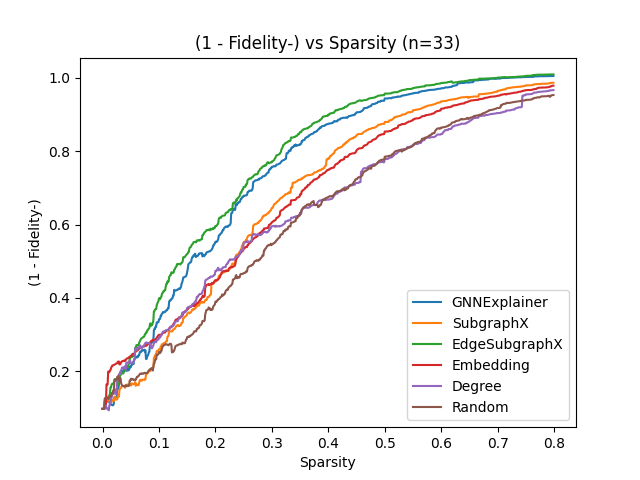
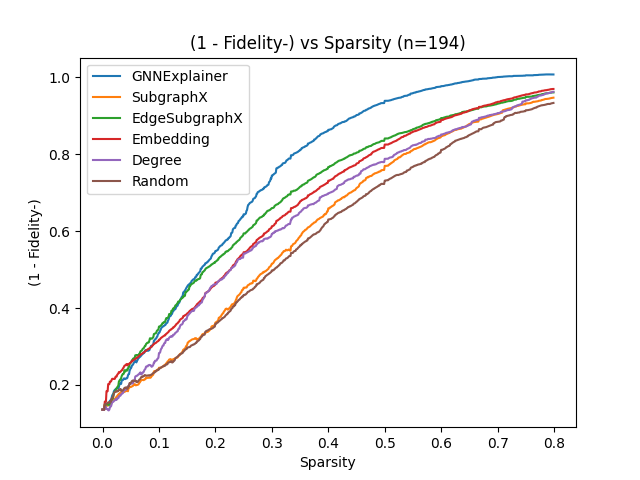
Run larger experiment
GNNExplainer takes the lead

diff --git a/src/experiments/vary_sparsity/base.py b/src/experiments/vary_sparsity/base.py
@@ -5,50 +5,17 @@ import numpy as np
 import torch
 
 from src.dataset import dataset, device, test_data
-from src.explainers.degree import DegreeExplainer
-from src.explainers.edge_subgraphx import EdgeSubgraphX
-from src.explainers.embedding import EmbeddingExplainer
-from src.explainers.gnnexplainer import GNNExplainer
-from src.explainers.random import RandomExplainer
-from src.explainers.subgraphx import SubgraphX
+from src.explainers.main import (
+    sample_degree,
+    sample_edge_subgraphx,
+    sample_embedding,
+    sample_gnnexplainer,
+    sample_random,
+    sample_subgraphx,
+)
 from src.metrics.fidelity import charact_prob, fid_minus_prob, fid_plus_prob
 from src.pred import Net
 from src.utils import get_neighbors, sigmoid
-
-
-def sample_gnnexplainer(
-    model, x, edge_index, node_idx_1, node_idx_2, epochs=100, lr=0.01
-):
-    # GNNExplainer, 100 queries per explanation
-    gnnexplainer = GNNExplainer(model, x, edge_index, epochs=epochs, lr=lr)
-    return gnnexplainer.explain_edge(node_idx_1, node_idx_2)
-
-
-def sample_subgraphx(model, x, edge_index, node_idx_1, node_idx_2, T=5):
-    # SubgraphX, 5 * size(neighborhood) queries per explanation
-    subgraphx = SubgraphX(model, x, edge_index, T=T)
-    return subgraphx.explain_edge(node_idx_1, node_idx_2)
-
-
-def sample_edge_subgraphx(model, x, edge_index, node_idx_1, node_idx_2, T=5):
-    # EdgeSubgraphX, 5 * size(neighborhood) queries per explanation
-    edge_subgraphx = EdgeSubgraphX(model, x, edge_index, T=T)
-    return edge_subgraphx.explain_edge(node_idx_1, node_idx_2)
-
-
-def sample_embedding(model, x, edge_index, node_idx_1, node_idx_2):
-    embedding_explainer = EmbeddingExplainer(model, x, edge_index)
-    return embedding_explainer.explain_edge(node_idx_1, node_idx_2)
-
-
-def sample_degree(model, x, edge_index, node_idx_1, node_idx_2):
-    degree_explainer = DegreeExplainer(model, x, edge_index)
-    return degree_explainer.explain_edge(node_idx_1, node_idx_2)
-
-
-def sample_random(model, x, edge_index, node_idx_1, node_idx_2):
-    random_explainer = RandomExplainer(model, x, edge_index)
-    return random_explainer.explain_edge(node_idx_1, node_idx_2)
 
 
 def run_experiment(

diff --git a/src/explainers/main.py b/src/explainers/main.py
@@ -1,0 +1,41 @@
+from src.explainers.degree import DegreeExplainer
+from src.explainers.edge_subgraphx import EdgeSubgraphX
+from src.explainers.embedding import EmbeddingExplainer
+from src.explainers.gnnexplainer import GNNExplainer
+from src.explainers.random import RandomExplainer
+from src.explainers.subgraphx import SubgraphX
+
+
+def sample_gnnexplainer(
+    model, x, edge_index, node_idx_1, node_idx_2, epochs=100, lr=0.01
+):
+    # GNNExplainer, 100 queries per explanation
+    gnnexplainer = GNNExplainer(model, x, edge_index, epochs=epochs, lr=lr)
+    return gnnexplainer.explain_edge(node_idx_1, node_idx_2)
+
+
+def sample_subgraphx(model, x, edge_index, node_idx_1, node_idx_2, T=5):
+    # SubgraphX, 5 * size(neighborhood) queries per explanation
+    subgraphx = SubgraphX(model, x, edge_index, T=T)
+    return subgraphx.explain_edge(node_idx_1, node_idx_2)
+
+
+def sample_edge_subgraphx(model, x, edge_index, node_idx_1, node_idx_2, T=5):
+    # EdgeSubgraphX, 5 * size(neighborhood) queries per explanation
+    edge_subgraphx = EdgeSubgraphX(model, x, edge_index, T=T)
+    return edge_subgraphx.explain_edge(node_idx_1, node_idx_2)
+
+
+def sample_embedding(model, x, edge_index, node_idx_1, node_idx_2):
+    embedding_explainer = EmbeddingExplainer(model, x, edge_index)
+    return embedding_explainer.explain_edge(node_idx_1, node_idx_2)
+
+
+def sample_degree(model, x, edge_index, node_idx_1, node_idx_2):
+    degree_explainer = DegreeExplainer(model, x, edge_index)
+    return degree_explainer.explain_edge(node_idx_1, node_idx_2)
+
+
+def sample_random(model, x, edge_index, node_idx_1, node_idx_2):
+    random_explainer = RandomExplainer(model, x, edge_index)
+    return random_explainer.explain_edge(node_idx_1, node_idx_2)

diff --git a/src/explainers/embedding.py b/src/explainers/embedding.py
@@ -16,7 +16,7 @@ class EmbeddingExplainer(Explainer):
         x, edge_index = self.x, self.edge_index
 
         neighbors_1 = get_neighbors_single_node(edge_index, node_idx_1)
-        if len(neighbors_1) > 0:
+        if len(neighbors_1) > 1:
             label_index = torch.tensor([[node_idx_2 for _ in neighbors_1], neighbors_1])
             label_index = label_index.to(x.device)
             node_idx_1_sim = self.pred_model(x, edge_index, label_index)[1]
@@ -24,7 +24,7 @@ class EmbeddingExplainer(Explainer):
             node_idx_1_sim = torch.zeros(1)
 
         neighbors_2 = get_neighbors_single_node(edge_index, node_idx_2)
-        if len(neighbors_2) > 0:
+        if len(neighbors_2) > 1:
             label_index = torch.tensor([[node_idx_1 for _ in neighbors_2], neighbors_2])
             label_index = label_index.to(x.device)
             node_idx_2_sim = self.pred_model(x, edge_index, label_index)[1]

diff --git a/src/experiments/vary_sparsity/run_multiple.py b/src/experiments/vary_sparsity/run_multiple.py
@@ -24,7 +24,7 @@ def get_data():
         model,
         test_data.x,
         test_data.edge_index,
-        test_data.edge_label_index[:, 50:200],
+        test_data.edge_label_index[:, 400:600],
         [
             sample_gnnexplainer,
             sample_subgraphx,
@@ -97,6 +97,6 @@ if __name__ == "__main__":
         with open("./results/vary_sparsity/data.json", "w") as f:
             json.dump(all_data, f)
     else:
-        with open("./results/vary_sparsity/data.json", "r") as f:
+        with open("./results/vary_sparsity/data_400.json", "r") as f:
             all_data = json.load(f)
         plot_data(all_data)
